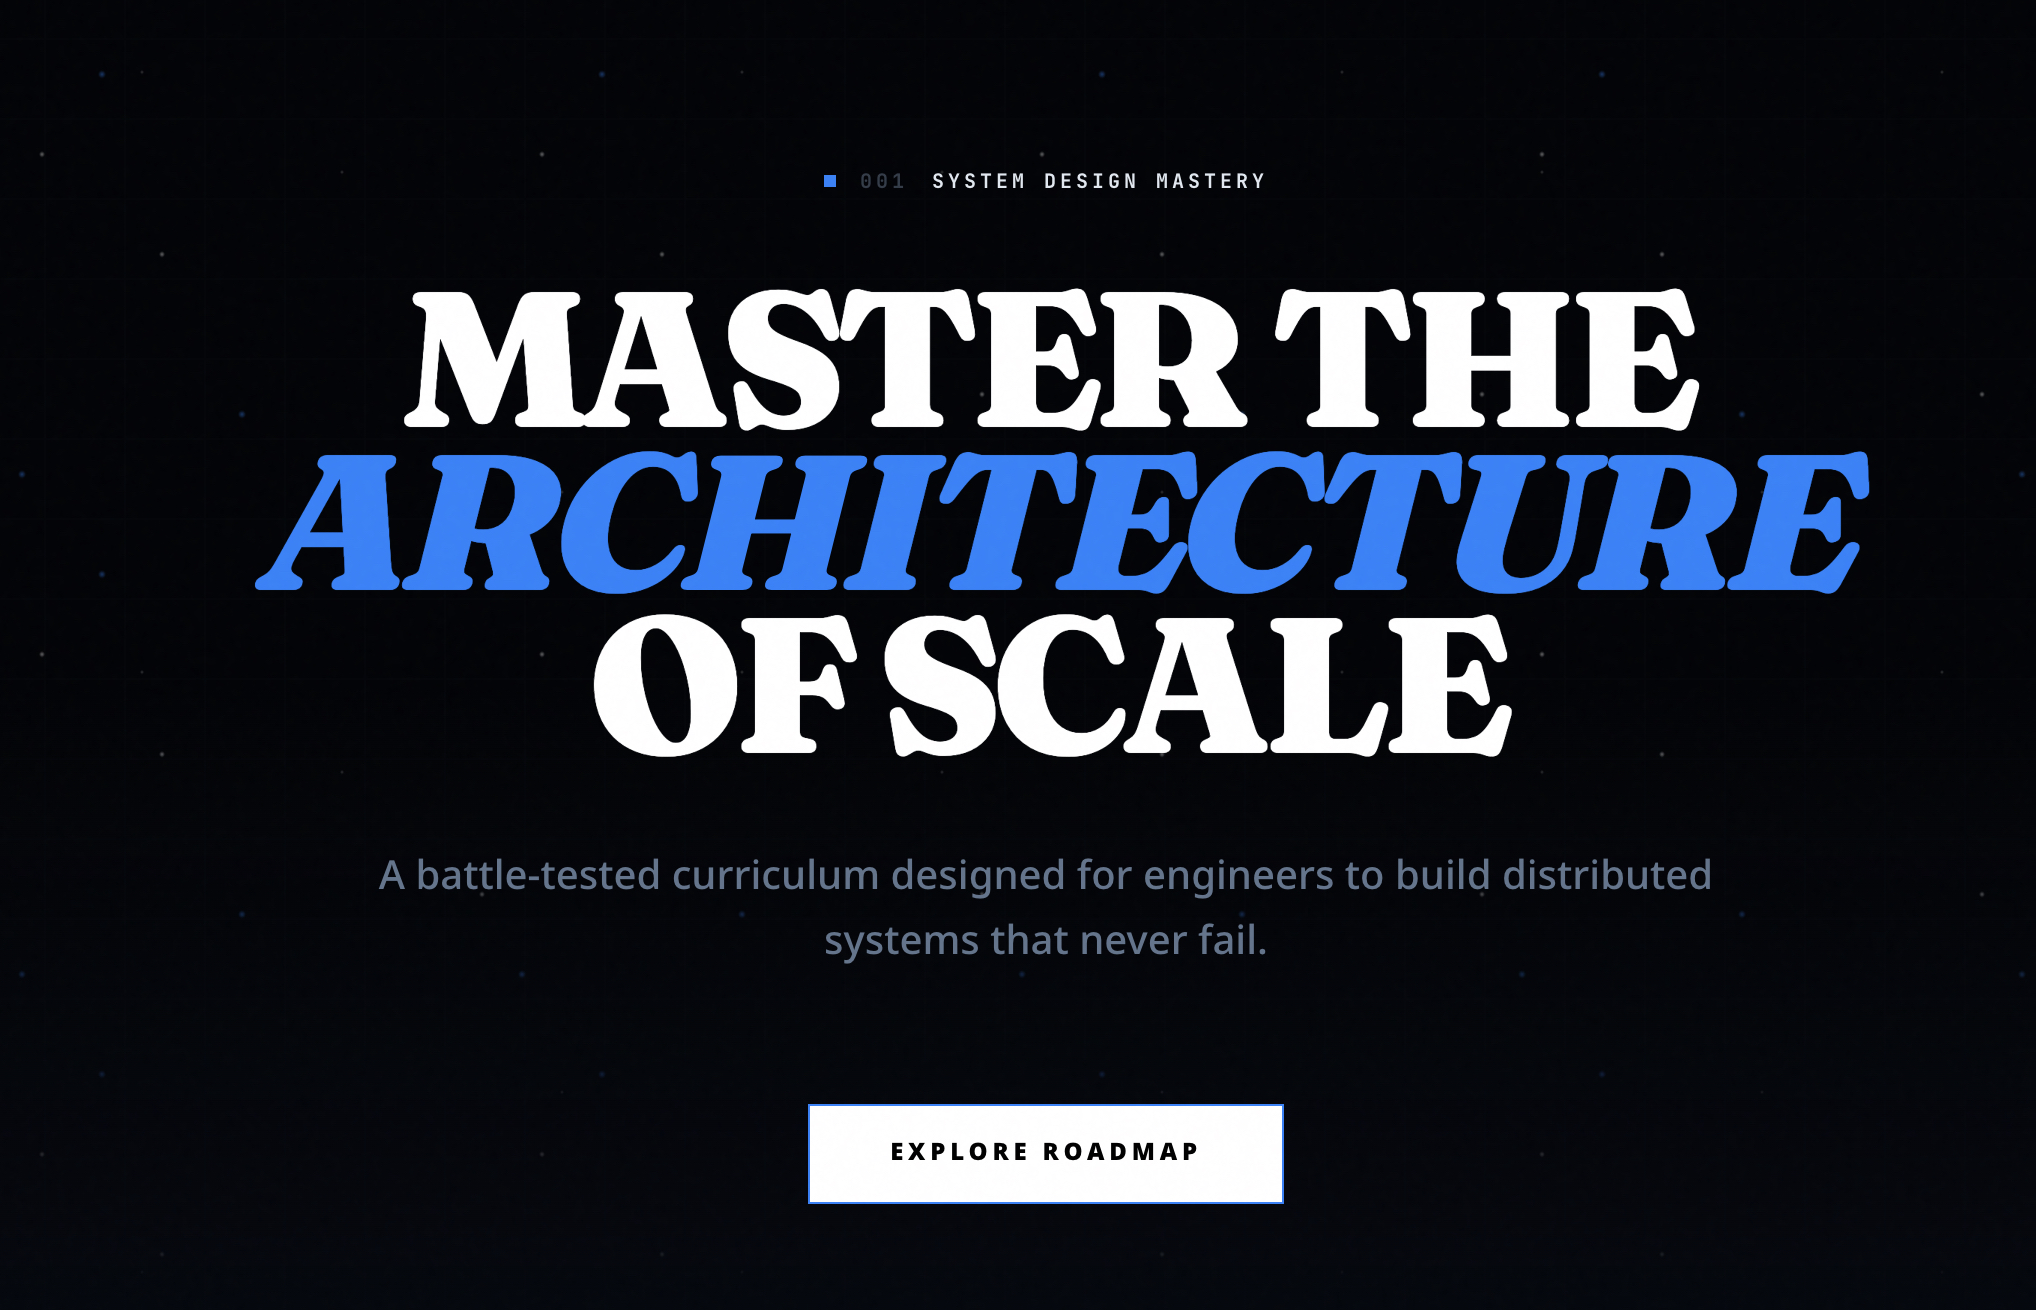
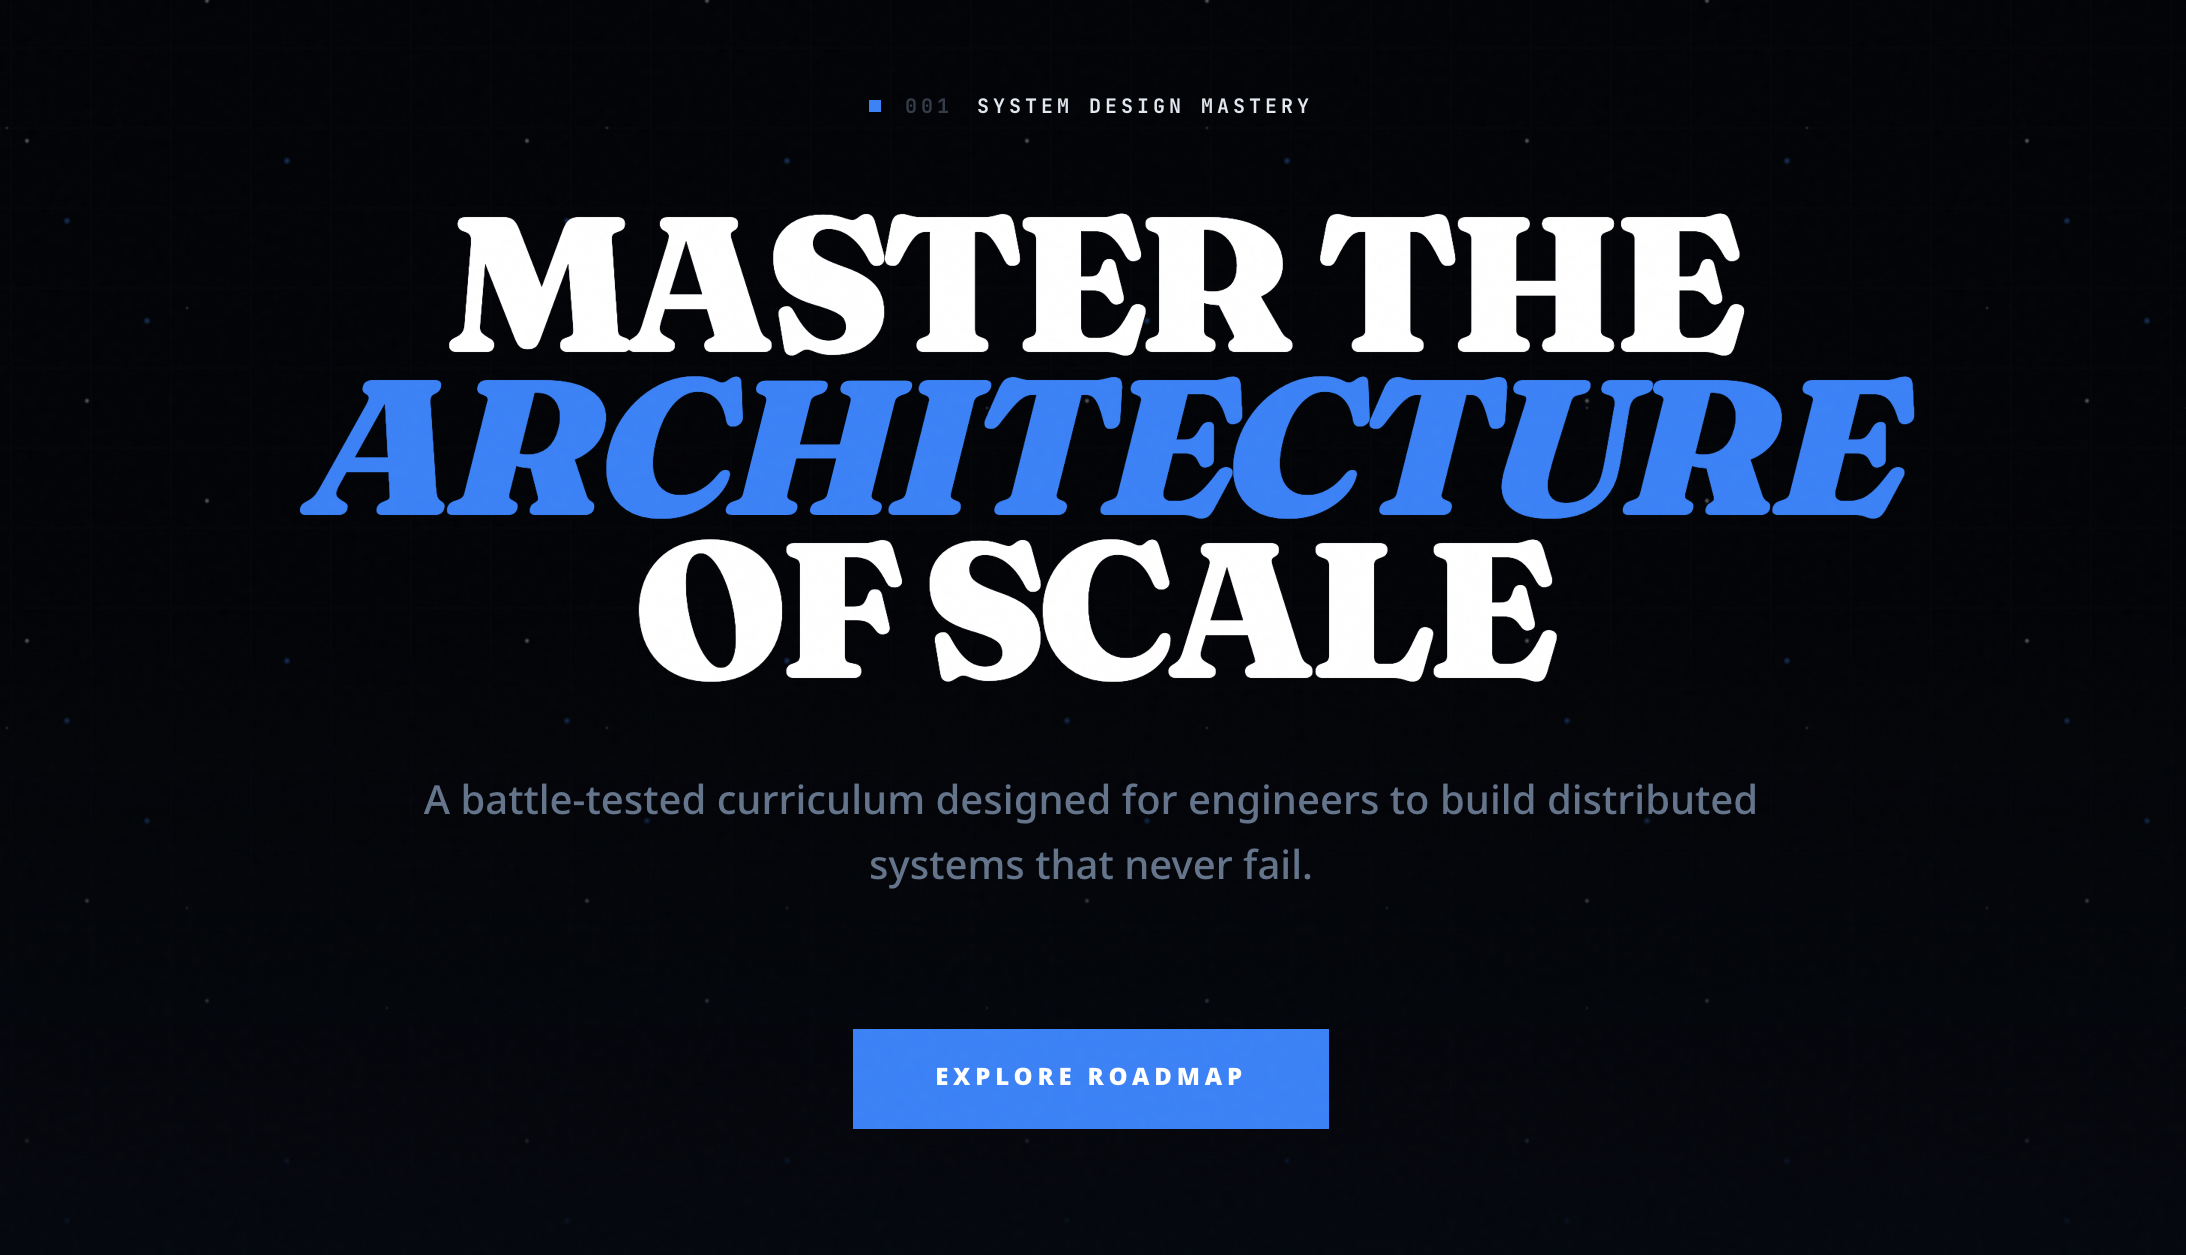
feat: add default Open Graph and Twitter card images to topic pages

diff --git a/app/topic/[id]/page.tsx b/app/topic/[id]/page.tsx
@@ -38,12 +38,21 @@ export async function generateMetadata({
       url,
       type: 'article',
       section: phase?.title,
+      images: [
+        {
+          url: '/og-default.png',
+          width: 1200,
+          height: 630,
+          alt: title,
+        },
+      ],
       tags: [topic.tag, topic.level, topic.type].filter(Boolean) as string[],
     },
     twitter: {
       card: 'summary_large_image',
       title: `${title} | System Design Mastery`,
       description,
+      images: ['/og-default.png'],
     },
   };
 }